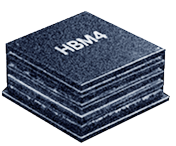
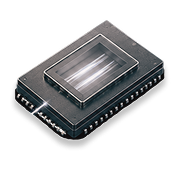
Add files via upload

diff --git a/style.css b/style.css
@@ -56,7 +56,7 @@ flex-shrink:0;
 
 
 .blink{
-    animation: blink-color 1.5s steps(1) infinite;
+    animation: blink-color 0.8s steps(1) infinite;
 }
 
 @keyframes blink-color{
@@ -556,6 +556,7 @@ a{
     margin: 20px auto 0;
 
 }
+
 
 .year{
     display:flex;
@@ -1373,9 +1374,6 @@ margin-top: 300px;}
 }
 
 
-.blink{
-    text-align:center;
-}
 
 .blue-square{
     width:16px;
@@ -1423,7 +1421,7 @@ margin-top: 300px;}
 
 @keyframes float{
     0%   { transform:translate(-50%,-65%) rotate(0deg); }
-    50%  { transform:translate(-50%,-82%) rotate(3deg); }   /* 더 높이 + 살짝 기울임 */
+    50%  { transform:translate(-50%,-82%) rotate(3deg); }  
     100% { transform:translate(-50%,-65%) rotate(0deg); }
 }
 
@@ -1432,4 +1430,44 @@ margin-top: 300px;}
   font-weight: 600;
   border-bottom: 2px solid #2958ff;
   padding-bottom: 4px;
+}
+
+
+
+
+
+
+/* hero깜빡임*/
+.blink-box{
+    animation:box-blink 1s steps(1) infinite;
+}
+@keyframes box-blink{
+    0%   { background:#2958ff; }
+    50%  { background:#fff; }
+    100% { background:#2958ff; }
+}
+
+
+
+
+
+
+
+/* 히어로 배경 서서히 나타나기 */
+.hero__bg{
+    opacity:0;
+    animation:hero-fade 2.5s ease forwards;
+}
+
+@keyframes hero-fade{
+    from{
+        opacity:0;
+        transform:scale(1.3);       
+        filter:brightness(0.5);     
+    }
+    to{
+        opacity:1;
+        transform:scale(1);         
+        filter:brightness(1);    
+    }
 }

diff --git a/index.html b/index.html
@@ -27,7 +27,7 @@
   <section class="hero" id="home">
     <div class="hero__bg"></div>
     <div class="container">
-      <h1>THE WORLD<br>RUNS ON<br>CHIPS<span class="blink">.</span></h1>
+      <h1 class="typing"></h1>
       <h2>왜, 작은칩이 세상을 흔드는가?</h2>
     </div>
   </section>
@@ -350,11 +350,11 @@
       </div>
 
       <div class="supply-chain">
-
+        
         <div class="chain-card reveal">
-          <h3>NVIDIA</h3>
-          <span>GPU설계</span>
-          <img src="./img/05.png" alt="">
+          <h3>ASML</h3>
+          <span>EUV 장비 공급</span>
+          <img src="./img/02.png" alt="">
         </div>
 
         <div class="arrow">></div>
@@ -376,17 +376,17 @@
         <div class="arrow">></div>
 
         <div class="chain-card reveal">
-          <h3>ASML</h3>
-          <span>EUV 장비 공급</span>
-          <img src="./img/02.png" alt="">
+          <h3>NVIDIA</h3>
+          <span>GPU완성</span>
+          <img src="./img/05.png" alt="">
         </div>
+
 
       </div>
 
       <div class="bottleneck-text">
         <p>
-          AI 반도체 공급망은 NVIDIA, TSMC, SK hynix, ASML과 같은 기업들이 긴밀하게 연결된 구조로 이루어져 있다. NVIDIA가 GPU를 설계하면 TSMC는 이를 첨단 공정으로
-          생산하고, SK hynix는 고대역폭 메모리(HBM)를 공급한다.
+          AI 반도체 공급망은 NVIDIA, TSMC, SK hynix, ASML과 같은 기업들이 긴밀하게 연결된 구조로 이루어져 있다.먼저 ASML이 초미세 공정을 가능하게 하는 EUV 장비를 공급하면, TSMC는 이를 활용해 첨단 파운드리 공정으로 칩을 생산한다. 여기에 SK hynix가 생산한 고대역폭 메모리(HBM)가 더해져 최종적으로 NVIDIA가 설계한 고성능 AI GPU가 완성되는 구조다.
           또한 ASML은 EUV 장비를 통해 첨단 반도체 생산을 가능하게 만든다. 생성형 AI의 폭발적인 성장으로 GPU 수요는 급격히 증가했고, 기존 DRAM의 한계를 극복하기 위해 HBM이 AI 반도체의
           핵심 기술로 부상했다. 여기에 GPU와 HBM을 연결하는 CoWoS 패키징 기술의 중요성까지 커지면서 공급망 전반에 새로운 병목현상이 발생하기 시작했다.
         </p>
@@ -441,17 +441,17 @@
 
             <div class="tech-item">
               <img src="./img/15.png" alt="">
-              <span class="reveal">CPU</span>
+              <span class="reveal">뉴로모픽 반도체</span>
             </div>
 
             <div class="tech-item">
               <img src="./img/01.png" alt="">
-              <span class="reveal">HBM4</span>
+              <span class="reveal">광 반도체</span>
             </div>
 
             <div class="tech-item">
               <img src="./img/14.png" alt="">
-              <span class="reveal">PIM</span>
+              <span class="reveal">양자 컴퓨팅</span>
             </div>
 
           </div>
@@ -465,8 +465,9 @@
         <p>
           AI 데이터센터는 더 많은 전력을 소비하고 더 많은 열을 발생시키고 있다.
           이에 따라 액침 냉각, 수냉식 냉각, 해저 데이터센터와 같은 차세대 냉각 기술이 주목받고 있다.
-          한편 HBM4는 더 높은 대역폭을 제공하는 차세대 AI 메모리이며, CXL은 메모리를 효율적으로 연결해 시스템 활용도를 높이는 기술이다.
-          또한 PIM은 메모리 내부에서 직접 연산을 수행해 데이터 이동을 줄이고 전력 효율을 향상시키는 차세대 반도체 기술로 주목받고 있다.
+          한편, 향후 AI 반도체 시장은 기존 실리콘 재료와 구조적 한계를 극복하기 위한 새로운 패러다임 기술에 주목하고 있다. 
+          대표적으로 인간의 뇌 신경망을 모방해 연산과 저장을 동시에 처리함으로써 전력 소모를 극적으로 줄이는 '뉴로모픽 반도체', 기존의 전기 신호 대신 빛을 이용해 발열을 없애고 데이터 전송 속도를 극대화하는 '광(光) 반도체'가 개발 중이다. 
+          이에 더해 양자역학적 특성을 이용해 복잡한 연산을 단 몇 초 만에 해결하는 '양자 컴퓨팅' 기술까지 더해지며, 미래 AI 반도체는 완전히 새로운 도약을 준비하고 있다.
         </p>
       </div>
 

diff --git a/java.js b/java.js
@@ -51,3 +51,32 @@ const spyObserver = new IntersectionObserver((entries) => {
 }, { rootMargin: '-45% 0px -45% 0px' });
 
 document.querySelectorAll('section[id]').forEach((sec) => spyObserver.observe(sec));
+
+
+
+
+
+
+
+
+const typingEl = document.querySelector('.typing');
+
+if (typingEl) {
+  const typingText = "THE WORLD\nRUNS ON\nCHIPS.";
+  let typingIndex = 0;
+  let built = "";   // 지금까지 친 글자 저장
+
+  function typeChar() {
+    if (typingIndex < typingText.length) {
+      const char = typingText[typingIndex];
+      built += (char === "\n") ? "<br>" : char;
+      typingEl.innerHTML = built;
+      typingIndex++;
+      setTimeout(typeChar,45);
+    } else {
+      // 타이핑 끝! "CHIPS." 만 깜빡이는 span으로 감싸기
+      typingEl.innerHTML = "THE WORLD<br>RUNS ON<br>CHIPS<span class='blink'>.</span>";
+    }
+  }
+  typeChar();
+}